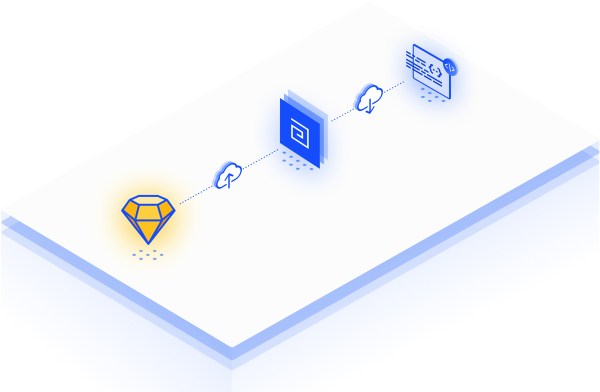
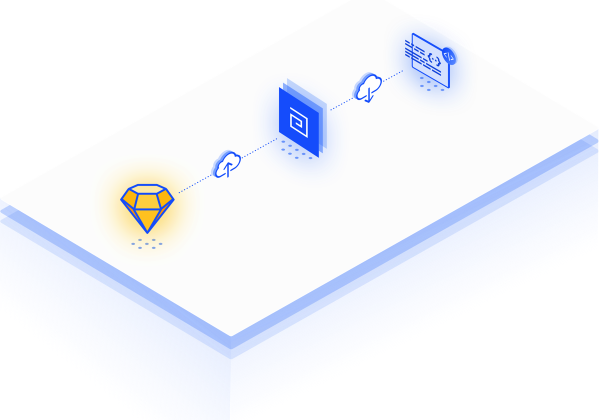
fix: fix layout hero section in desktop view

Changed region(s): [[0.0, 0.3061, 1.0, 0.949], [0.4508, 0.0612, 0.7813, 0.4592]]

diff --git a/practice-two/src/styles/layouts/header.css b/practice-two/src/styles/layouts/header.css
@@ -60,7 +60,6 @@
 }
 
 .hero-notify {
-  margin-top: 3rem;
   display: grid;
   justify-items: center;
   background-image: url(../../assets/images/background-hero.jpg);
@@ -142,7 +141,7 @@
   .hero-img {
     width: 53.5%;
     margin-left: auto;
-    margin-top: 3.125rem;
+    margin-top: 6.125rem;
     padding: 0;
   }
 }

diff --git a/practice-two/src/styles/components/sections/testimonials-section.css b/practice-two/src/styles/components/sections/testimonials-section.css
@@ -11,6 +11,10 @@
 }
 
 @media all and (min-width: 1024px) {
+  .testimonials {
+    margin-top: 0;
+  }
+
   .testimonials-container {
     flex-direction: row;
   }

diff --git a/practice-two/README.md b/practice-two/README.md
@@ -10,12 +10,13 @@
 ### Information:
   - Timeline:
     - Estimate time: 8 days.
-    - Actual time: 8 days.
+    - Actual time: 9 days.
   - Techniques: HTML5/ CSS3/ Responsive (apply mobile-first)
   - Editor: Visual Studio Code
   - Supported browser:
       - Chrome ( Latest version )
-      - Other modern browsers (Chrome, Firefox, MS Edge, Opera, Safari)
+      - Other modern browsers (Chrome, Firefox, MS Edge, Opera)
+  - Folder structure following 7-1 pattern
 
 ### Development environment:
   - Node: version 14.0.0
